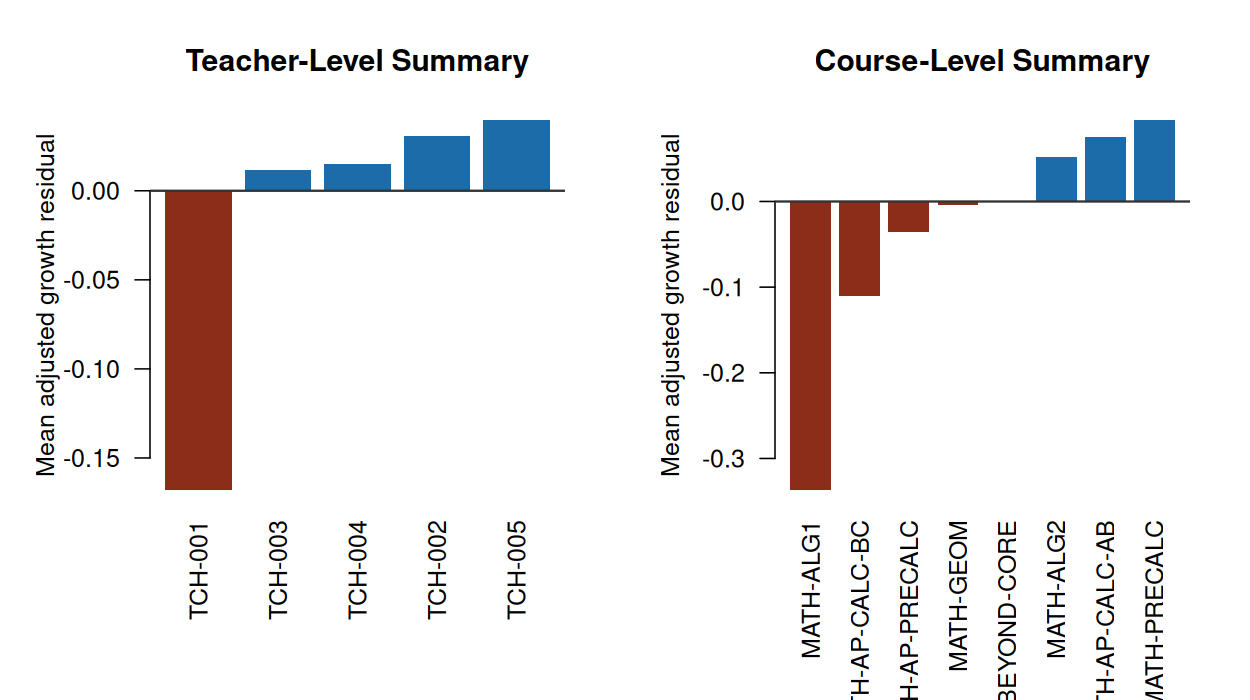
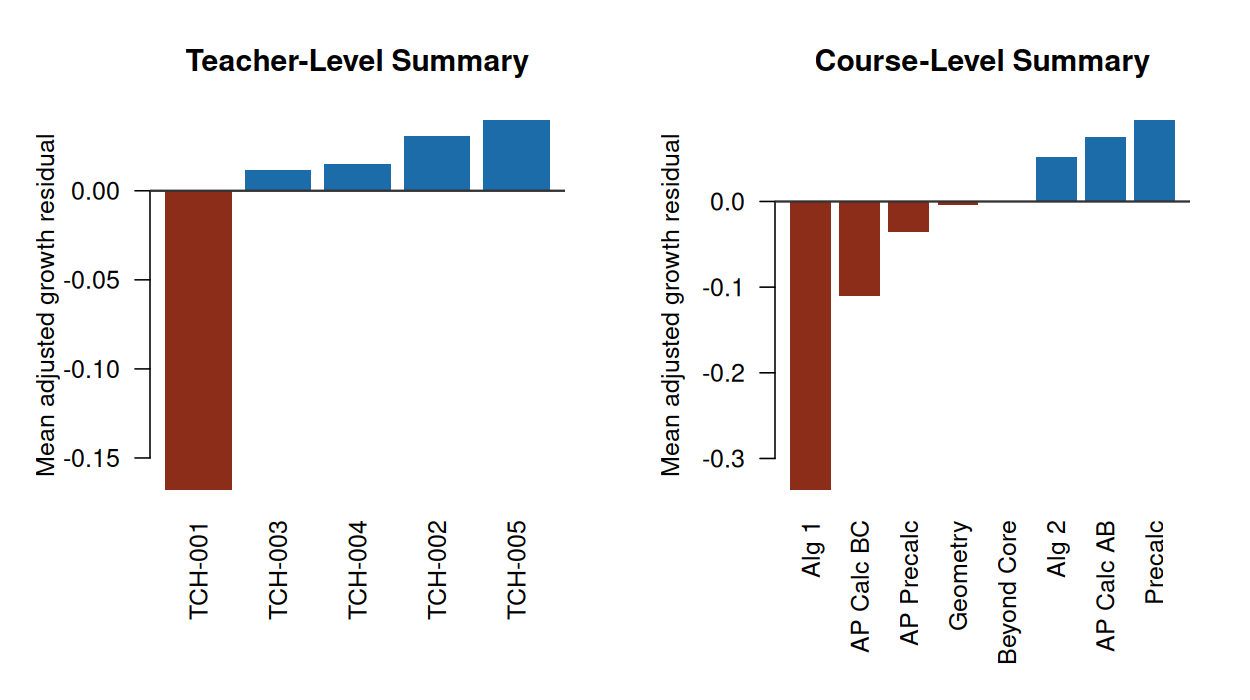
docs(report): improve PDF preview readability

Changed region(s): [[0.624, 0.75, 0.936, 1.0]]

diff --git a/reports/assessment_growth_section_performance_report.md b/reports/assessment_growth_section_performance_report.md
@@ -45,14 +45,14 @@ The table below shows high-signal section-year groups from the review layer, wit
 
 | Section | N | BOY | EOY | Gain | 95% CI | p-value |
 | --- | --- | --- | --- | --- | --- | --- |
-| 30-31 SEC-006 | 9 | 42.4 | 52.8 | 10.39 | 7.18 to 13.60 | <0.001 |
-| 30-31 SEC-019 | 12 | 37.6 | 46.7 | 9.09 | 6.66 to 11.52 | <0.001 |
-| 27-28 SEC-017 | 11 | 43.9 | 52.6 | 8.79 | 5.37 to 12.22 | <0.001 |
-| 29-30 SEC-017 | 11 | 37.1 | 45.9 | 8.77 | 5.77 to 11.78 | <0.001 |
-| 30-31 SEC-008 | 11 | 35.0 | 44.0 | 9.07 | 4.80 to 13.34 | <0.001 |
-| 31-32 SEC-002 | 10 | 40.1 | 49.1 | 9.02 | 6.32 to 11.73 | <0.001 |
-| 29-30 SEC-003 | 12 | 41.0 | 49.7 | 8.73 | 6.24 to 11.22 | <0.001 |
-| 26-27 SEC-006 | 9 | 30.0 | 39.9 | 9.85 | 6.41 to 13.28 | <0.001 |
+| 30-31 S06 | 9 | 42.4 | 52.8 | 10.39 | 7.18 to 13.60 | <0.001 |
+| 30-31 S19 | 12 | 37.6 | 46.7 | 9.09 | 6.66 to 11.52 | <0.001 |
+| 27-28 S17 | 11 | 43.9 | 52.6 | 8.79 | 5.37 to 12.22 | <0.001 |
+| 29-30 S17 | 11 | 37.1 | 45.9 | 8.77 | 5.77 to 11.78 | <0.001 |
+| 30-31 S08 | 11 | 35.0 | 44.0 | 9.07 | 4.80 to 13.34 | <0.001 |
+| 31-32 S02 | 10 | 40.1 | 49.1 | 9.02 | 6.32 to 11.73 | <0.001 |
+| 29-30 S03 | 12 | 41.0 | 49.7 | 8.73 | 6.24 to 11.22 | <0.001 |
+| 26-27 S06 | 9 | 30.0 | 39.9 | 9.85 | 6.41 to 13.28 | <0.001 |
 
 ![Distribution of BOY/EOY improvement](../figures/growth_distribution.png)
 
@@ -62,23 +62,29 @@ The adjusted model estimates expected BOY/EOY gain from starting score/readiness
 
 ![Nonparametric and parametric BOY score shape](../figures/baseline_growth_shape.png)
 
-| Family | Why tested | Decision | CV RMSE | Holdout RMSE |
-| --- | --- | --- | --- | --- |
-| Context baseline | Tests whether grade, course, attendance, and year context are enough. | Baseline comparator. | 5.078 | 4.802 |
-| Linear BOY score | Adds the main baseline achievement signal. | Useful simple challenger. | 4.734 | 4.428 |
-| Quadratic BOY score | Tests whether gain changes nonlinearly for very low or high BOY scores. | Compared for nonlinear gain shape. | 4.737 | 4.427 |
-| Piecewise BOY score | Uses interpretable score regions to handle floor and ceiling effects. | Interpretable nonlinear challenger. | 4.741 | 4.432 |
-| Readiness-augmented | Checks whether readiness adds signal beyond the observed BOY score. | Selected operating model. | 4.700 | 4.399 |
-| Spline BOY score benchmark | Flexible benchmark for the baseline-score curve. | Benchmark only; not selected unless it materially improves validation. | 4.745 | 4.422 |
+<!-- PDF_PAGE_BREAK -->
 
-| Model | Selected | Role | Params | CV RMSE | CV SD | CV MAE | CV R2 | Holdout RMSE | Holdout R2 | Delta |
-| --- | --- | --- | --- | --- | --- | --- | --- | --- | --- | --- |
-| Readiness-augmented | Yes | Selection candidate | 13 | 4.700 | 0.010 | 3.773 | 0.159 | 4.399 | 0.181 | 0.000 |
-| Linear BOY score |  | Selection candidate | 12 | 4.734 | 0.009 | 3.782 | 0.147 | 4.428 | 0.170 | 0.034 |
-| Quadratic BOY score |  | Selection candidate | 13 | 4.737 | 0.010 | 3.786 | 0.146 | 4.427 | 0.171 | 0.037 |
-| Piecewise BOY score |  | Selection candidate | 14 | 4.741 | 0.010 | 3.789 | 0.145 | 4.432 | 0.169 | 0.041 |
-| Spline BOY score benchmark |  | Benchmark | 15 | 4.745 | 0.010 | 3.792 | 0.143 | 4.422 | 0.172 | 0.045 |
-| Context baseline |  | Selection candidate | 10 | 5.078 | 0.007 | 4.076 | 0.019 | 4.802 | 0.024 | 0.378 |
+**Model family review**
+
+| Family | Decision | CV RMSE | Holdout RMSE |
+| --- | --- | --- | --- |
+| Context baseline | Baseline comparator. | 5.078 | 4.802 |
+| Linear BOY score | Useful simple challenger. | 4.734 | 4.428 |
+| Quadratic BOY score | Compared for nonlinear gain shape. | 4.737 | 4.427 |
+| Piecewise BOY score | Interpretable nonlinear challenger. | 4.741 | 4.432 |
+| Readiness-augmented | Selected operating model. | 4.700 | 4.399 |
+| Spline BOY score benchmark | Benchmark only; not selected unless it materially improves validation. | 4.745 | 4.422 |
+
+| Model | Selected | CV RMSE | Holdout RMSE | Holdout R2 |
+| --- | --- | --- | --- | --- |
+| Readiness-augmented | Yes | 4.700 | 4.399 | 0.181 |
+| Linear BOY score |  | 4.734 | 4.428 | 0.170 |
+| Quadratic BOY score |  | 4.737 | 4.427 | 0.171 |
+| Piecewise BOY score |  | 4.741 | 4.432 | 0.169 |
+| Spline BOY score benchmark |  | 4.745 | 4.422 | 0.172 |
+| Context baseline |  | 5.078 | 4.802 | 0.024 |
+
+The full model-comparison table is generated as `reports/growth_model_comparison_display.csv`.
 
 ![Expected-growth model comparison](../figures/growth_model_comparison.png)
 
@@ -86,24 +92,24 @@ The adjusted model estimates expected BOY/EOY gain from starting score/readiness
 
 For each section-year group, the adjusted signal is the reliability-weighted average residual: observed gain minus expected gain, weighted toward zero for smaller groups. Positive values mean the section improved more than expected for its starting mix; negative values mean it improved less than expected.
 
-| Section | Teacher | N | Raw gain | Expected gain | Adjusted signal | Category |
+| Section | Teacher | N | Raw | Expected | Signal | Result |
 | --- | --- | --- | --- | --- | --- | --- |
-| 30-31 SEC-006 | TCH-002 | 9 | 10.39 | 6.39 | 1.89 | Above expected |
-| 30-31 SEC-019 | TCH-005 | 12 | 9.09 | 6.13 | 1.61 | Above expected |
-| 27-28 SEC-017 | TCH-005 | 11 | 8.79 | 5.77 | 1.59 | Within expected range |
-| 29-30 SEC-017 | TCH-003 | 11 | 8.77 | 5.92 | 1.50 | Above expected |
-| 30-31 SEC-008 | TCH-002 | 11 | 9.07 | 6.42 | 1.39 | Within expected range |
-| 31-32 SEC-002 | TCH-002 | 10 | 9.02 | 6.33 | 1.35 | Within expected range |
-| 29-30 SEC-003 | TCH-002 | 12 | 8.73 | 6.38 | 1.28 | Above expected |
-| 26-27 SEC-006 | TCH-002 | 9 | 9.85 | 7.18 | 1.26 | Within expected range |
-| 30-31 SEC-009 | TCH-002 | 9 | 2.33 | 6.65 | -2.05 | Below expected |
-| 30-31 SEC-002 | TCH-002 | 12 | 2.22 | 5.48 | -1.78 | Within expected range |
-| 26-27 SEC-003 | TCH-001 | 9 | 3.27 | 6.45 | -1.50 | Below expected |
-| 27-28 SEC-008 | TCH-002 | 13 | 4.04 | 6.69 | -1.50 | Below expected |
-| 26-27 SEC-013 | TCH-004 | 10 | 2.27 | 5.25 | -1.49 | Below expected |
-| 25-26 SEC-013 | TCH-003 | 11 | 3.99 | 6.64 | -1.39 | Within expected range |
-| 31-32 SEC-019 | TCH-005 | 12 | 2.41 | 4.90 | -1.36 | Within expected range |
-| 30-31 SEC-001 | TCH-001 | 10 | 3.28 | 5.96 | -1.34 | Below expected |
+| 30-31 S06 | TCH-002 | 9 | 10.39 | 6.39 | 1.89 | Above |
+| 30-31 S19 | TCH-005 | 12 | 9.09 | 6.13 | 1.61 | Above |
+| 27-28 S17 | TCH-005 | 11 | 8.79 | 5.77 | 1.59 | In range |
+| 29-30 S17 | TCH-003 | 11 | 8.77 | 5.92 | 1.50 | Above |
+| 30-31 S08 | TCH-002 | 11 | 9.07 | 6.42 | 1.39 | In range |
+| 31-32 S02 | TCH-002 | 10 | 9.02 | 6.33 | 1.35 | In range |
+| 29-30 S03 | TCH-002 | 12 | 8.73 | 6.38 | 1.28 | Above |
+| 26-27 S06 | TCH-002 | 9 | 9.85 | 7.18 | 1.26 | In range |
+| 30-31 S09 | TCH-002 | 9 | 2.33 | 6.65 | -2.05 | Below |
+| 30-31 S02 | TCH-002 | 12 | 2.22 | 5.48 | -1.78 | In range |
+| 26-27 S03 | TCH-001 | 9 | 3.27 | 6.45 | -1.50 | Below |
+| 27-28 S08 | TCH-002 | 13 | 4.04 | 6.69 | -1.50 | Below |
+| 26-27 S13 | TCH-004 | 10 | 2.27 | 5.25 | -1.49 | Below |
+| 25-26 S13 | TCH-003 | 11 | 3.99 | 6.64 | -1.39 | In range |
+| 31-32 S19 | TCH-005 | 12 | 2.41 | 4.90 | -1.36 | In range |
+| 30-31 S01 | TCH-001 | 10 | 3.28 | 5.96 | -1.34 | Below |
 
 ![Sections above or below expected growth](../figures/section_adjusted_signals.png)
 
@@ -121,19 +127,25 @@ Teacher and course summaries aggregate the section-level evidence. They are usef
 | TCH-003 | 34 | 351 | 50.6 | 56.5 | 5.95 | 5.94 | 0.01 |
 | TCH-001 | 23 | 229 | 40.7 | 47.2 | 6.49 | 6.66 | -0.17 |
 
-| Course | Track | Sections | Records | BOY | EOY | Raw gain | Expected gain | Adjusted signal |
-| --- | --- | --- | --- | --- | --- | --- | --- | --- |
-| MATH-PRECALC | regular | 21 | 216 | 41.5 | 47.2 | 5.73 | 5.63 | 0.10 |
-| MATH-AP-CALC-AB | ap | 27 | 294 | 50.5 | 55.7 | 5.21 | 5.14 | 0.07 |
-| MATH-ALG2 | regular | 23 | 236 | 37.2 | 43.8 | 6.57 | 6.52 | 0.05 |
-| MATH-BEYOND-CORE | beyond_core | 6 | 21 | 67.7 | 70.8 | 3.08 | 3.08 | 0.00 |
-| MATH-ALG2-H | honors | 20 | 198 | 57.6 | 63.8 | 6.12 | 6.12 | 0.00 |
-| MATH-GEOM | regular | 31 | 334 | 42.5 | 48.9 | 6.39 | 6.40 | -0.00 |
-| MATH-AP-PRECALC | ap | 22 | 214 | 59.2 | 64.3 | 5.10 | 5.14 | -0.04 |
-| MATH-AP-CALC-BC | ap | 14 | 131 | 63.7 | 67.5 | 3.86 | 3.97 | -0.11 |
-| MATH-ALG1 | regular | 10 | 93 | 38.7 | 45.3 | 6.60 | 6.94 | -0.34 |
+<!-- PDF_PAGE_BREAK -->
+
+**Course-level summary**
+
+| Course | Sections | Records | Raw | Expected | Signal |
+| --- | --- | --- | --- | --- | --- |
+| Precalc | 21 | 216 | 5.73 | 5.63 | 0.10 |
+| AP Calc AB | 27 | 294 | 5.21 | 5.14 | 0.07 |
+| Alg 2 | 23 | 236 | 6.57 | 6.52 | 0.05 |
+| Beyond Core | 6 | 21 | 3.08 | 3.08 | 0.00 |
+| Alg 2 H | 20 | 198 | 6.12 | 6.12 | 0.00 |
+| Geometry | 31 | 334 | 6.39 | 6.40 | -0.00 |
+| AP Precalc | 22 | 214 | 5.10 | 5.14 | -0.04 |
+| AP Calc BC | 14 | 131 | 3.86 | 3.97 | -0.11 |
+| Alg 1 | 10 | 93 | 6.60 | 6.94 | -0.34 |
 
 ![Teacher and course growth summaries](../figures/teacher_course_summary.png)
+
+<!-- PDF_PAGE_BREAK -->
 
 ## Diagnostics and Sensitivity
 